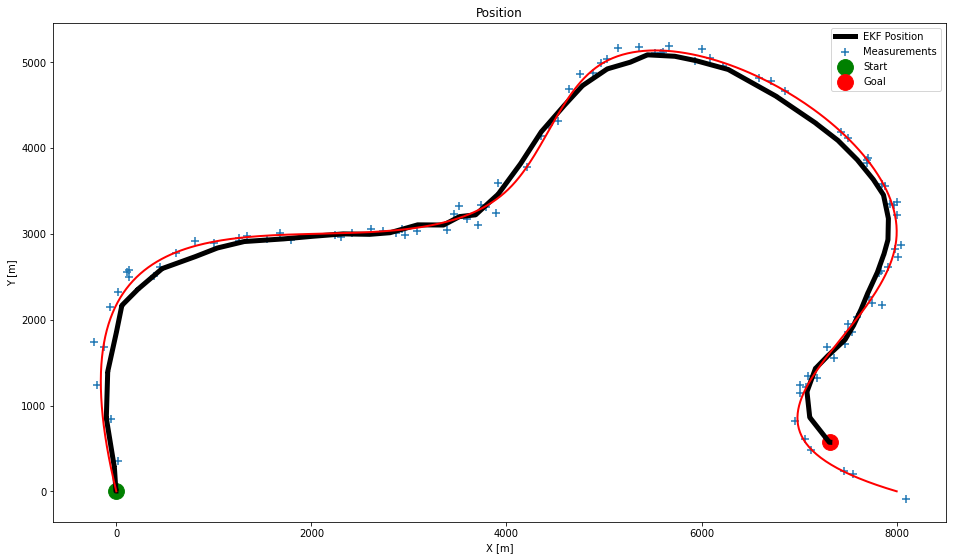
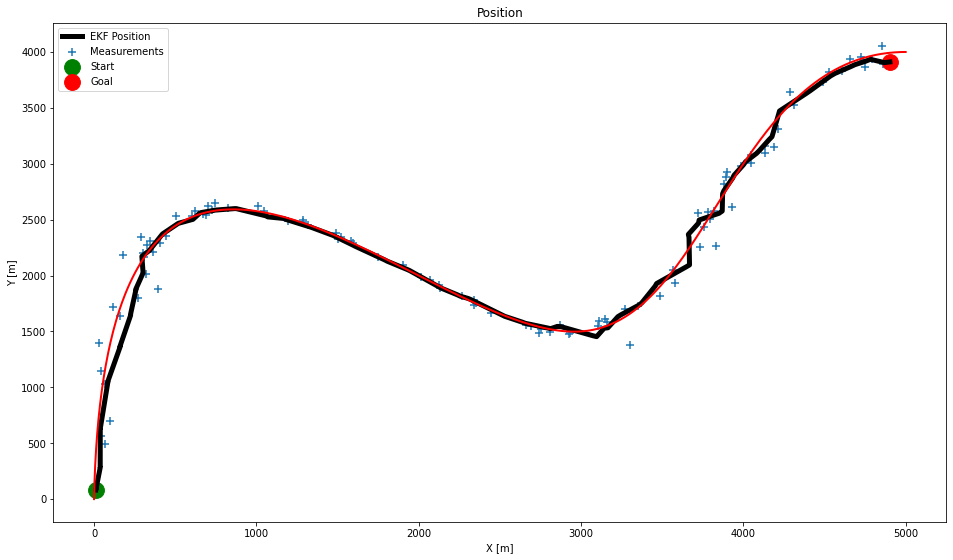
Tuned filter

diff --git a/experiments/Examples/walkthrough.py b/experiments/Examples/walkthrough.py
@@ -1567,10 +1567,10 @@ def ekf_cvtr():
     #                          [0.7, 0.1], [0.8, 0], [0.8, -0.3], [0.6, -0.4], [0.4, -0.3],
     #                          [0.2, -0.05], [0, 0]]).T
     #
-    track_points = np.array([[0, 0], [0.2, 0.3], [0.4, 0.35], [0.5, 0.5], [0.8, 0.3],
-                             [0.7, 0.1], [0.8, 0]]).T
+    # track_points = np.array([[0, 0], [0.2, 0.3], [0.4, 0.35], [0.5, 0.5], [0.8, 0.3],
+    #                          [0.7, 0.1], [0.8, 0]]).T
 
-    # track_points = np.array([[0, 0], [0.2, 0.2], [0.3, 0.15], [0.4, 0.3], [0.5, 0.4]]).T
+    track_points = np.array([[0, 0], [0.2, 0.2], [0.3, 0.15], [0.4, 0.3], [0.5, 0.4]]).T
     points = track_points * 10000
 
     # points *= 10000
@@ -1656,9 +1656,10 @@ def ekf_cvtr():
 
     # P = np.diag([1000.0, 1000.0, 1000.0, 1000.0, 1000.0])
     # Set the initial uncertainties for each state variable
-    initial_uncertainties = [10.0, 10.0, np.radians(5), 20.0, np.radians(2)]
+    # state = [x, y, heading, velocity, yaw_rate]
+    initial_uncertainties = [10.0, 10.0, np.radians(10), 40.0, np.radians(3)]
 
-    # Initialize the P matrix
+    # Initialize the P matrix //It is squared b/c variance not standard dev
     P = np.diag(initial_uncertainties) ** 2
 
     # process covariance
@@ -1676,15 +1677,15 @@ def ekf_cvtr():
     # Define maximum centripetal acceleration
     max_centripetal_acceleration = 3 * 9.8  # Maximum lateral acceleration in m/s^2
 
-    # Define variances for each state variable
-    var_x = 20.0 ** 2  # Variance for x position
-    var_y = 20.0 ** 2  # Variance for y position
-    var_heading = np.radians(5) ** 2  # Variance for heading angle
-    var_velocity = (0.05 * max_centripetal_acceleration) ** 2  # Variance for velocity
-    var_yaw_rate = np.radians(2) ** 2  # Variance for yaw rate
+    # Define standard deviations for each state variable
+    var_x = 20.0  # standard deviation for x position
+    var_y = 20.0  # standard deviation for y position
+    var_heading = np.radians(10)  # standard deviation for heading angle
+    var_velocity = (0.05 * max_centripetal_acceleration)  # standard deviation for velocity
+    var_yaw_rate = np.radians(3)  # standard deviation for yaw rate
 
     # Create the Q matrix
-    Q = np.diag([var_x, var_y, var_heading, var_velocity, var_yaw_rate])
+    Q = np.diag([var_x, var_y, var_heading, var_velocity, var_yaw_rate]) ** 2
 
     # Measurment function h
 
@@ -1698,12 +1699,14 @@ def ekf_cvtr():
     # m_noise = input_sensor_noise**2
     # R = np.matrix([[m_noise, 0.0],
     #                [0.0, m_noise]])
-    R = np.diag([input_sensor_noise**2, input_sensor_noise**2])
+    # Squared b/c variance not standard dev
+    R = np.diag([input_sensor_noise, input_sensor_noise]) ** 2
 
     I = np.eye(5)
 
     # Initial state
-    x = np.matrix([[0.0, 0.0, 3.14, 6.001, 0.05]]).T
+    # state = [x, y, vel, heading, yaw_rate]
+    x = np.matrix([[0.0, 0.0, 50, 1.5, 0.0]]).T
 
     # Preallocation for Plotting
     x0 = []
@@ -1866,6 +1869,7 @@ def ekf_cvtr():
 
     plotxy()
     plt.show()
+
 
 
 
